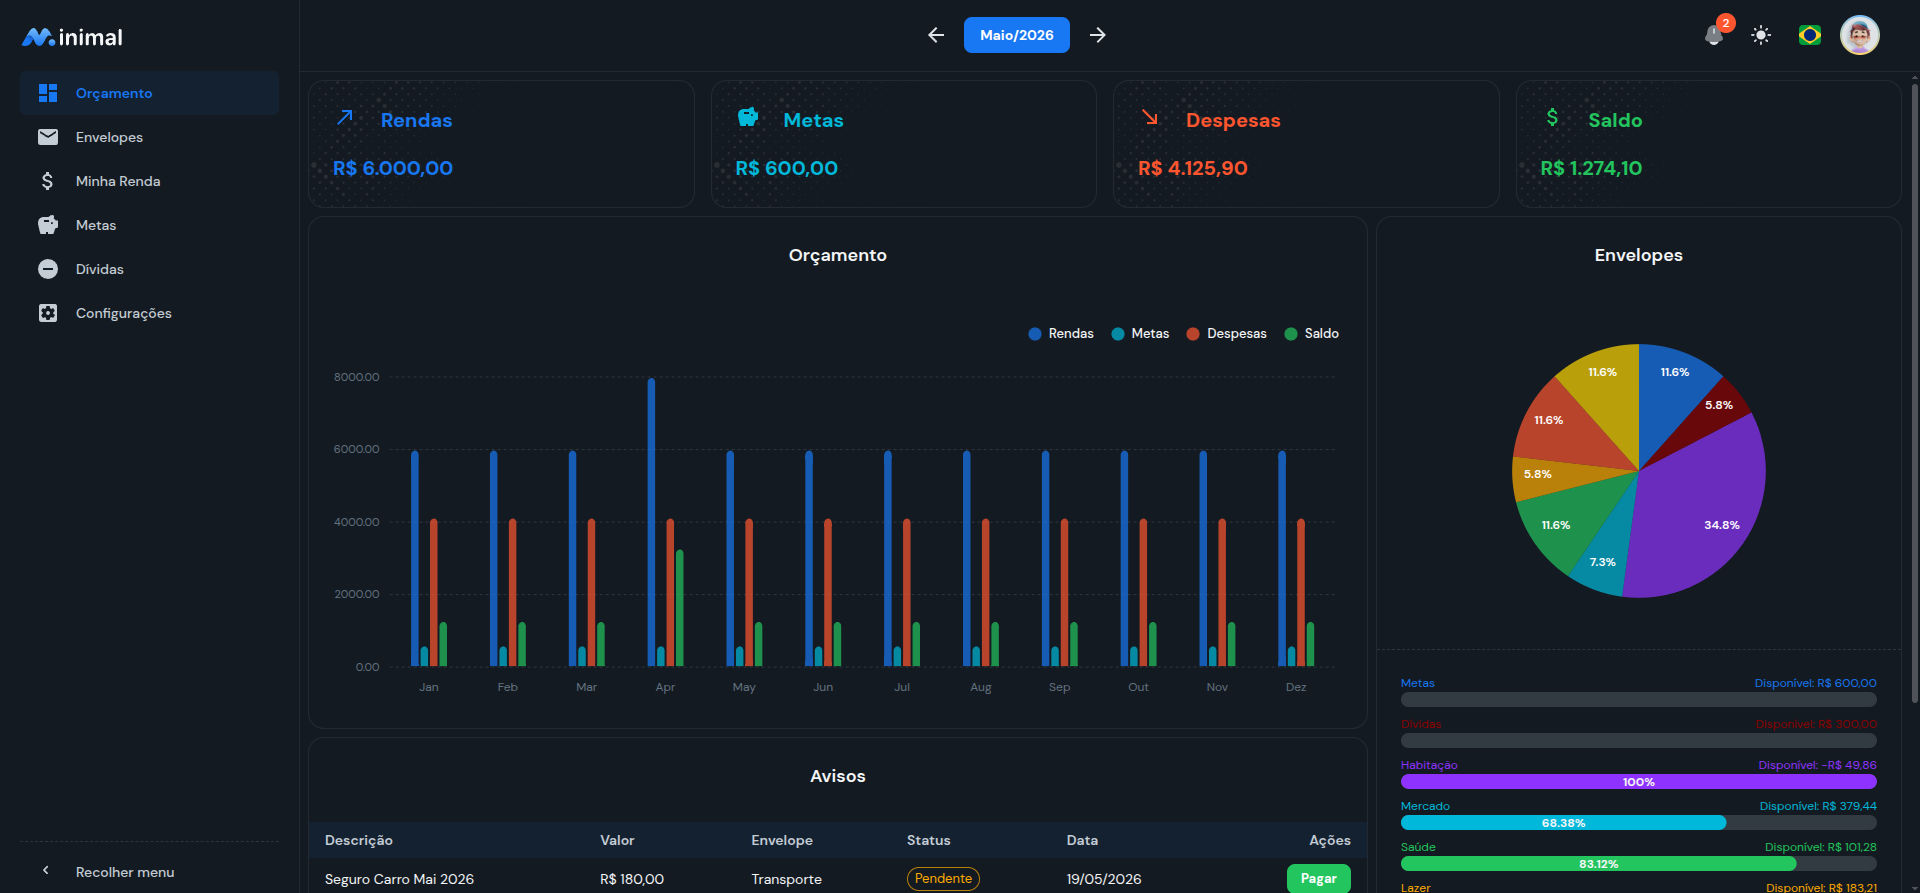
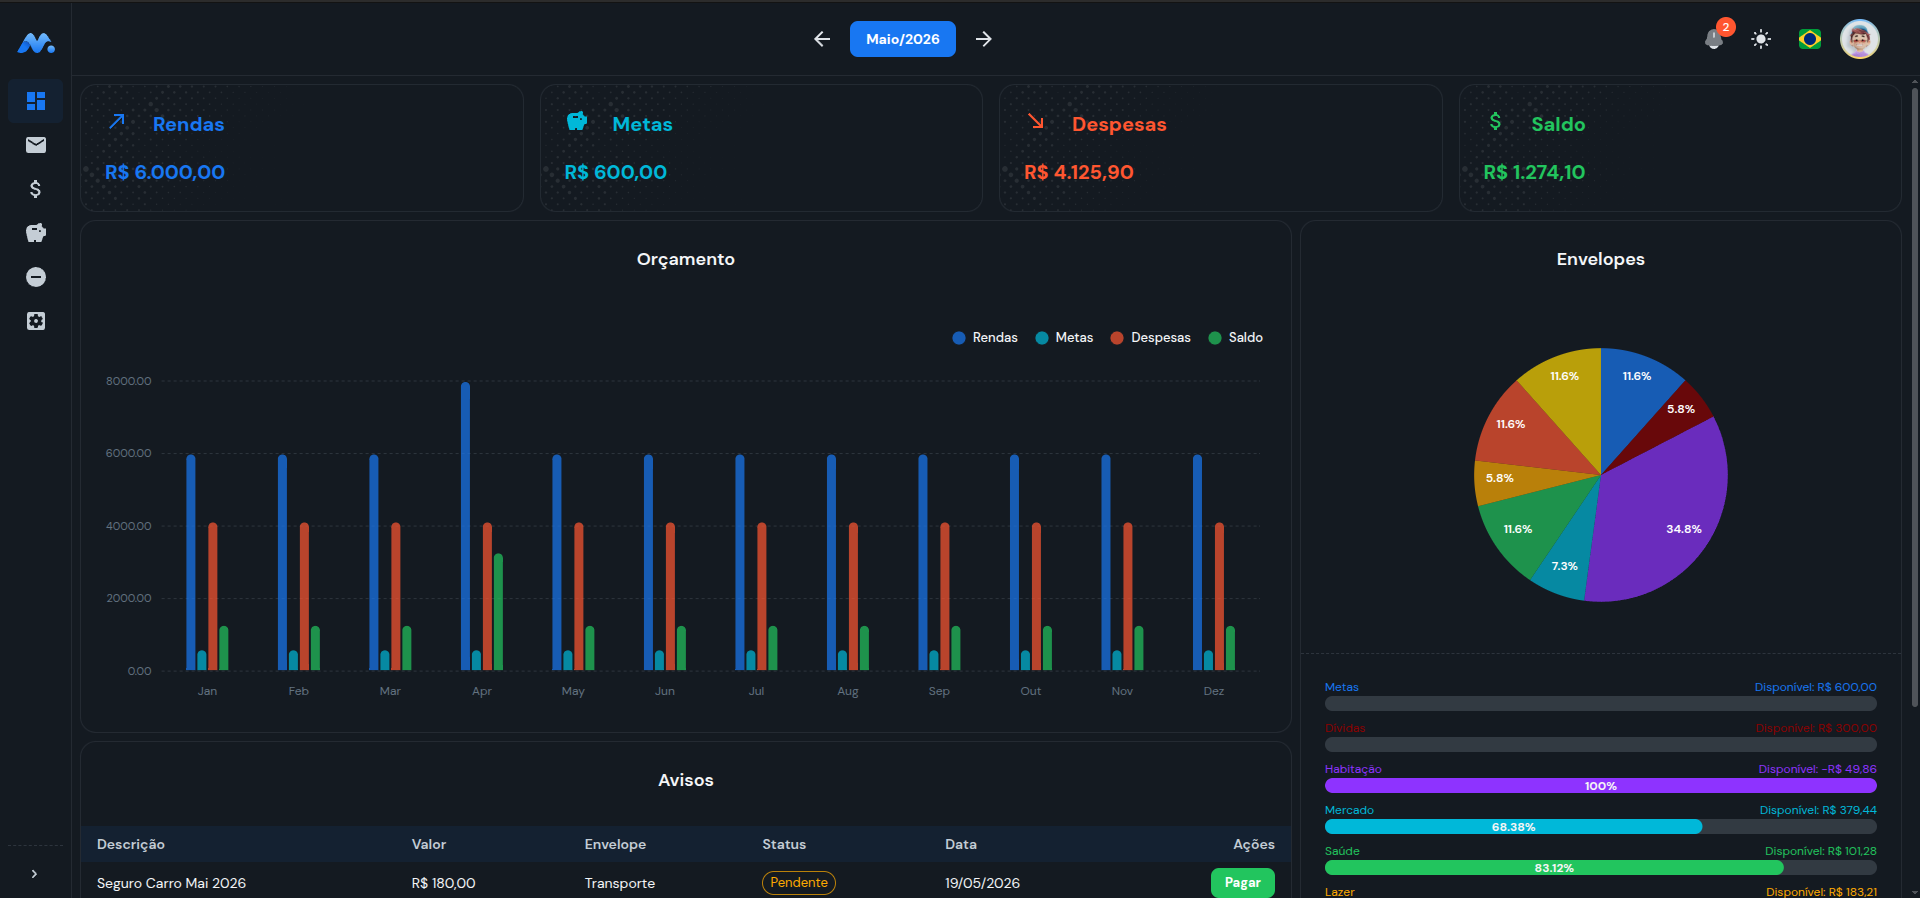
feat: update screenshots and improve image handling in FeatureSpotlightSection and HeroSection

diff --git a/src/sections/hero/HeroSection.tsx b/src/sections/hero/HeroSection.tsx
@@ -1,4 +1,3 @@
-import { useState } from 'react';
 import { useTranslation } from 'react-i18next';
 
 import Box from '@mui/material/Box';
@@ -17,75 +16,14 @@ const APP_URL = import.meta.env.VITE_APP_URL ?? '#';
 
 // ----------------------------------------------------------------------
 
-type ScreenshotBoxProps = {
-  src: string;
-  alt: string;
-  eager?: boolean;
-};
-
-function ScreenshotBox({ src, alt, eager }: ScreenshotBoxProps) {
-  const theme = useTheme();
-  const [imgError, setImgError] = useState(false);
-
-  return (
-    <Box
-      sx={{
-        borderRadius: 3,
-        overflow: 'hidden',
-        boxShadow: theme.customShadows.z24,
-        border: `1px solid ${varAlpha(theme.palette.grey['500Channel'], 0.12)}`,
-        bgcolor: 'background.paper',
-        aspectRatio: '16/10',
-        display: 'flex',
-        alignItems: 'center',
-        justifyContent: 'center',
-      }}
-    >
-      {!imgError ? (
-        <Box
-          component="img"
-          src={src}
-          alt={alt}
-          loading={eager ? 'eager' : 'lazy'}
-          onError={() => setImgError(true)}
-          sx={{ width: '100%', height: '100%', objectFit: 'cover', display: 'block' }}
-        />
-      ) : (
-        <Stack spacing={1.5} alignItems="center" sx={{ opacity: 0.4 }}>
-          <Box
-            sx={{
-              width: 64,
-              height: 64,
-              borderRadius: '50%',
-              bgcolor: 'primary.main',
-              display: 'flex',
-              alignItems: 'center',
-              justifyContent: 'center',
-            }}
-          >
-            <Typography variant="h4" sx={{ color: 'white', fontWeight: 800 }}>
-              EVE
-            </Typography>
-          </Box>
-          <Typography variant="body2" color="text.secondary">
-            {alt}
-          </Typography>
-        </Stack>
-      )}
-    </Box>
-  );
-}
-
-// ----------------------------------------------------------------------
-
 export function HeroSection() {
   const { t } = useTranslation();
   const theme = useTheme();
+  const isDark = theme.palette.mode === 'dark';
 
-  const handleScrollToHowItWorks = () => {
-    const el = document.querySelector('#how-it-works');
-    if (el) el.scrollIntoView({ behavior: 'smooth' });
-  };
+  const dashboardSrc = isDark
+    ? '/assets/screenshots/mockup-dashboard-dark.png'
+    : '/assets/screenshots/mockup-dashboard-light.png';
 
   return (
     <Box
@@ -106,7 +44,7 @@ export function HeroSection() {
               <Typography
                 variant="h1"
                 sx={{
-                  color: theme.palette.mode === 'dark' ? 'common.white' : 'grey.800',
+                  color: isDark ? 'common.white' : 'white',
                 }}
               >
                 {t('hero.headline')}
@@ -115,7 +53,7 @@ export function HeroSection() {
               <Typography
                 variant="body1"
                 sx={{
-                  color: theme.palette.mode === 'dark' ? 'grey.300' : 'grey.600',
+                  color: isDark ? 'grey.300' : 'white',
                   maxWidth: 480,
                   lineHeight: 1.8,
                 }}
@@ -125,36 +63,54 @@ export function HeroSection() {
 
               <Stack direction={{ xs: 'column', sm: 'row' }} spacing={2} sx={{ pt: 1 }}>
                 <Button
-                  variant="contained"
+                  fullWidth
+                  variant="outlined"
                   size="large"
                   href={`${APP_URL}/cadastro`}
-                  sx={{ px: 4, minWidth: 200 }}
+                  sx={{ px: 4, minWidth: 200, color: 'white', borderColor: 'white' }}
                 >
                   {t('hero.cta')}
                 </Button>
-                <Button
-                  variant="outlined"
-                  size="large"
-                  onClick={handleScrollToHowItWorks}
-                  sx={{
-                    px: 4,
-                    borderColor: varAlpha(theme.palette.grey['500Channel'], 0.4),
-                    color: theme.palette.mode === 'dark' ? 'common.white' : 'grey.800',
-                  }}
-                >
-                  {t('hero.ctaSecondary')}
-                </Button>
+
               </Stack>
             </Stack>
           </Grid2>
 
-          {/* Screenshot / placeholder */}
           <Grid2 size={{ xs: 12, md: 6 }}>
-            <ScreenshotBox
-              src="/assets/screenshots/dashboard.png"
-              alt="ProjectEVE dashboard"
-              eager
-            />
+            <Box
+              sx={{
+                position: 'relative',
+                borderRadius: 4,
+                overflow: 'hidden',
+                aspectRatio: '4/3',
+                boxShadow: theme.customShadows.z24,
+              }}
+            >
+              <Box
+                sx={{
+                  position: 'absolute',
+                  inset: 0,
+                  background: isDark
+                    ? 'linear-gradient(160deg, rgba(0,0,0,0.55) 0%, rgba(0,0,0,0.15) 60%, rgba(0,0,0,0.45) 100%)'
+                    : 'linear-gradient(160deg, rgba(0,0,0,0.35) 0%, rgba(0,0,0,0.05) 60%, rgba(0,0,0,0.30) 100%)',
+                  transition: 'background 0.3s ease',
+                }}
+
+              >
+                <Box
+                  component="img"
+                  src={dashboardSrc}
+                  alt={`ProjectEVE dashboard - modo ${isDark ? 'escuro' : 'claro'}`}
+                  loading="eager"
+                  sx={{
+                    height: '100%',
+                    display: 'block',
+                    objectFit: 'cover',
+                    transition: 'opacity 0.4s ease',
+                  }}
+                />
+              </Box>
+            </Box>
           </Grid2>
         </Grid2>
       </Container>

diff --git a/src/sections/feature-spotlight/FeatureSpotlightSection.tsx b/src/sections/feature-spotlight/FeatureSpotlightSection.tsx
@@ -28,7 +28,6 @@ type SpotlightItemProps = {
 function SpotlightItem({ spotlightKey, screenshotSrc, screenshotAlt, reversed }: SpotlightItemProps) {
   const { t } = useTranslation();
   const theme = useTheme();
-
   const bullets = t(`spotlight.${spotlightKey}.bullets`, { returnObjects: true }) as string[];
 
   const textContent = (
@@ -120,18 +119,26 @@ function SpotlightItem({ spotlightKey, screenshotSrc, screenshotAlt, reversed }:
 // ----------------------------------------------------------------------
 
 export function FeatureSpotlightSection() {
+  const theme = useTheme();
+  const isDark = theme.palette.mode === 'dark';
+  const envelopesSrc = isDark
+    ? '/assets/screenshots/envelopes-dark.png'
+    : '/assets/screenshots/envelopes-light.png';
+  const dashboardSrc = isDark
+    ? '/assets/screenshots/dashboard-dark.png'
+    : '/assets/screenshots/dashboard-light.png';
   return (
     <Box component="section" sx={{ py: { xs: 8, md: 12 } }}>
       <Container maxWidth="lg">
         <Stack spacing={{ xs: 8, md: 12 }}>
           <SpotlightItem
             spotlightKey="envelopes"
-            screenshotSrc="/assets/screenshots/envelopes.png"
+            screenshotSrc={envelopesSrc}
             screenshotAlt="Tela de envelopes do ProjectEVE"
           />
           <SpotlightItem
             spotlightKey="dashboard"
-            screenshotSrc="/assets/screenshots/dashboard.png"
+            screenshotSrc={dashboardSrc}
             screenshotAlt="Dashboard do ProjectEVE"
             reversed
           />

diff --git a/src/sections/trust-bar/TrustBar.tsx b/src/sections/trust-bar/TrustBar.tsx
@@ -39,7 +39,6 @@ export function TrustBar() {
                 width: 1,
                 height: 'auto',
                 display: { xs: 'none', sm: 'block' },
-                borderLeft: `1px solid ${varAlpha(theme.palette.grey['500Channel'], 0.2)}`,
               }}
             />
           }
@@ -51,7 +50,7 @@ export function TrustBar() {
               spacing={1.5}
               alignItems="center"
               justifyContent="center"
-              sx={{ flex: 1, px: 3 }}
+              sx={{ flex: 1, px: 1 }}
             >
               <Iconify icon={item.icon} width={24} sx={{ color: item.color, flexShrink: 0 }} />
               <Typography variant="subtitle2" sx={{ fontWeight: 600 }}>
